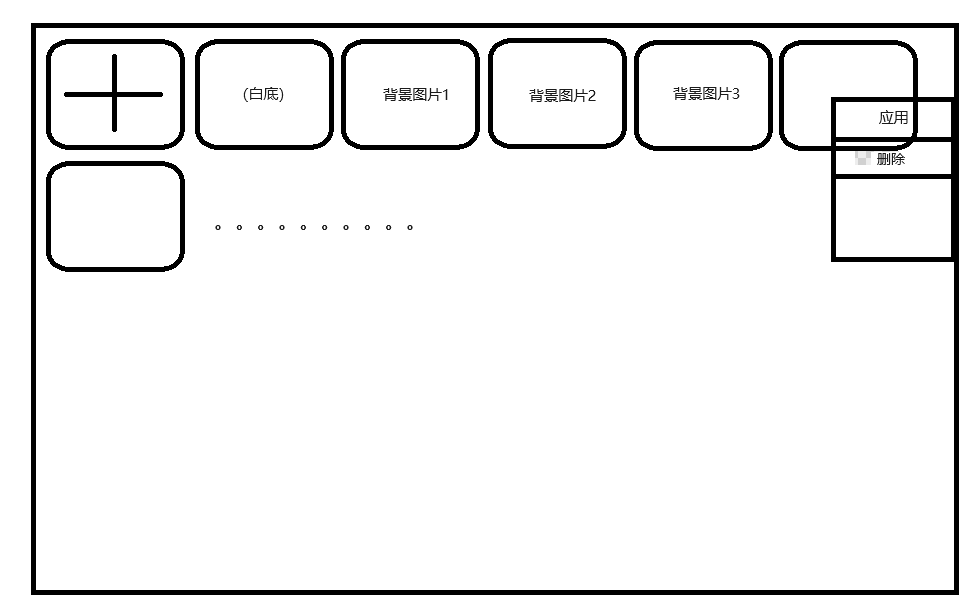
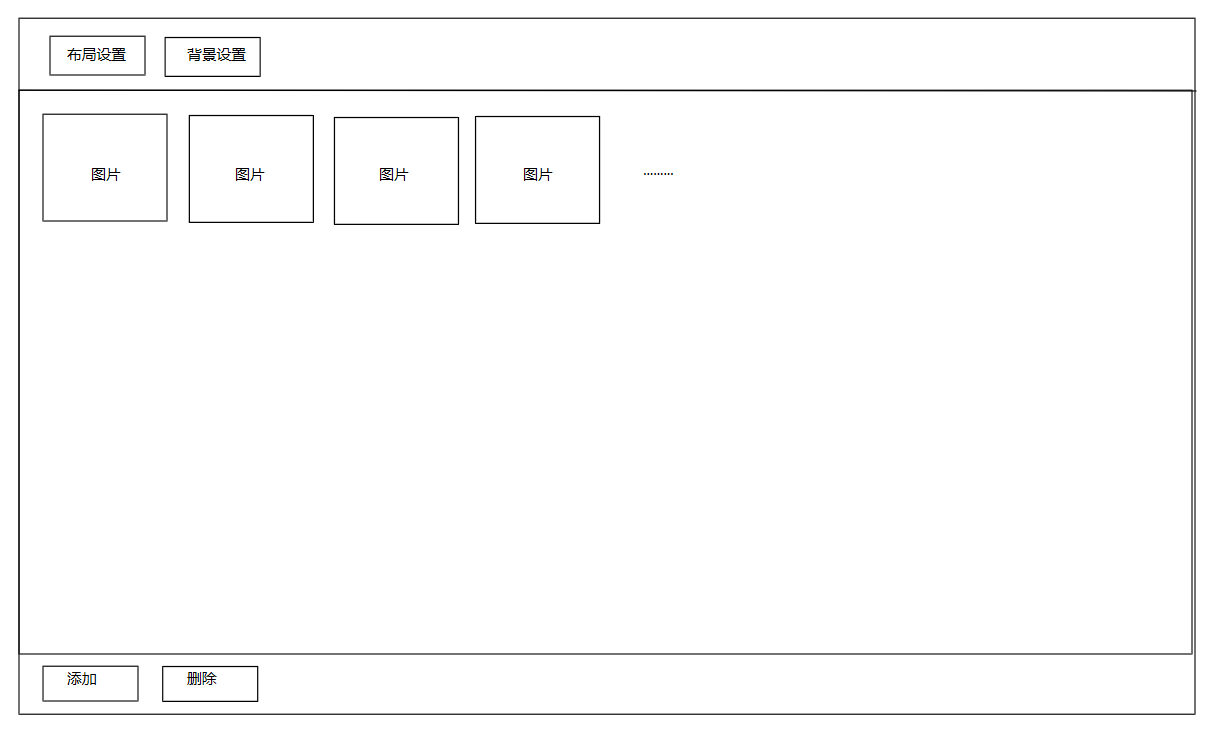
背景设置240313

Changed region(s): [[0.0, 0.0, 1.0, 0.987]]

diff --git a/WPF-Practice/WPF-Practice/BackgroundSetup.xaml b/WPF-Practice/WPF-Practice/BackgroundSetup.xaml
@@ -5,10 +5,25 @@
              xmlns:d="http://schemas.microsoft.com/expression/blend/2008" 
              xmlns:local="clr-namespace:WPF_Practice"
              mc:Ignorable="d" 
-             d:DesignHeight="450" d:DesignWidth="800" Background="Transparent">
-    <WrapPanel Orientation="Horizontal">
-        <Border Width="100" Height="100" Background="Transparent">
-            <Image x:Name="test" Source="./Images/离心泵.jpg" Stretch="Fill" MouseDown="test_MouseDown"  />
-        </Border>
-    </WrapPanel>
+             d:DesignHeight="450" d:DesignWidth="800">
+    <Grid>
+        <Grid.RowDefinitions>
+            <RowDefinition Height="*" />
+            <RowDefinition Height="60" />
+        </Grid.RowDefinitions>
+        <WrapPanel x:Name="wrap" Orientation="Horizontal" SizeChanged="WrapPanel_SizeChanged" Grid.Row="0">
+            <Border x:Name="test2" Width="100" Height="100">
+                <Border.Style>
+                    <Style>
+
+                    </Style>
+                </Border.Style>
+                <Image x:Name="test" Source="./Images/离心泵.jpg" Stretch="Fill" MouseDown="test_MouseDown"  />
+            </Border>
+        </WrapPanel>
+        <WrapPanel Grid.Row="1" VerticalAlignment="Center" ItemWidth="120" ItemHeight="40">
+            <Button Margin="8 0 8 0">添加</Button>
+            <Button  Margin="8 0 8 0">删除</Button>
+        </WrapPanel>
+    </Grid>
 </UserControl>

diff --git a/WPF-Practice/WPF-Practice/MainWindow.xaml b/WPF-Practice/WPF-Practice/MainWindow.xaml
@@ -99,7 +99,7 @@
             </Setter>
         </Style>
     </Window.Resources>
-    <TabControl Style="{DynamicResource TabControlStyle1}" x:Name="tc">
+    <TabControl Style="{DynamicResource TabControlStyle1}" x:Name="tc" Background="Transparent">
         <TabItem Header="布局设置">
             <local:LayoutSetup x:Name="layout_setup" />
         </TabItem>

diff --git a/WPF-Practice/WPF-Practice/MainWindow.xaml.cs b/WPF-Practice/WPF-Practice/MainWindow.xaml.cs
@@ -36,17 +36,13 @@ namespace WPF_Practice
             ////使用binding连接源与目标
             //BindingOperations.SetBinding(this.tc, TabControl.ItemsSourceProperty, binding);
             //this.tc.DataContext = Menu;
-
             tc.AddHandler(Button.ClickEvent, new RoutedEventHandler(ButtonClicked));
-            tc.AddHandler(BackgroundSetup.SetBackgroundImageEvent, new RoutedEventHandler(ApplyBackground));
+            tc.AddHandler(BackgroundSetup.SetBackgroundImageEvent, new EventHandler<SetBackgroundImageEventArgs>(ApplyBackground));
         }
 
-        private void ApplyBackground(object sender, RoutedEventArgs e)
+        private void ApplyBackground(object sender, SetBackgroundImageEventArgs e)
         {
-            if (e is SetBackgroundImageEventArgs be)
-            {
-                this.Background = new ImageBrush { ImageSource = be.BackgroundImage.Source };
-            }
+            this.Background = new ImageBrush { ImageSource = e.BackgroundImage.Source };
         }
 
         private void ButtonClicked(object sender, RoutedEventArgs e)

diff --git a/WPF-Practice/WPF-Practice/BackgroundSetup.xaml.cs b/WPF-Practice/WPF-Practice/BackgroundSetup.xaml.cs
@@ -21,8 +21,8 @@ namespace WPF_Practice
     public partial class BackgroundSetup : UserControl
     {
         public static readonly RoutedEvent SetBackgroundImageEvent = EventManager.RegisterRoutedEvent("SetBackgroundImage",
-        RoutingStrategy.Bubble,typeof(RoutedEventHandler),typeof(BackgroundSetup));
-
+        RoutingStrategy.Bubble,typeof(EventHandler<SetBackgroundImageEventArgs>),typeof(BackgroundSetup));
+        
         public event RoutedEventHandler SetBackgroundImage
         {
             add => AddHandler(SetBackgroundImageEvent, value);
@@ -42,6 +42,11 @@ namespace WPF_Practice
             Image bg = sender as Image;
             var args = new SetBackgroundImageEventArgs(bg);
             RaiseEvent(args);
+        }
+
+        private void WrapPanel_SizeChanged(object sender, SizeChangedEventArgs e)
+        {
+            test2.Width = test2.Height = this.ActualWidth / 10;
         }
     }
 

diff --git a/WPF-Practice/WPF-Practice/2_背景设置.md b/WPF-Practice/WPF-Practice/2_背景设置.md
@@ -3,15 +3,25 @@
 ## 需求分析
 
 需求：先看图片  ![背景设置UI草图](./Images/背景图片设置UI草图.png)  
-1. 点击带“+”符号的框，弹出图片选择对话框，等待用户选取图片后，将图片追加到列表中
-2. 点击白底框，将背景图片置空，背景为白底
-3. 双击图片框，将该图片设置为应用的背景图
-4. 右键图片框，可以“应用”或“删除”图片
-5. 窗体最大化时，应将图片框大小放大一些，同理对于窗体小化
+1. 双击图片列表中的图片框，将该图片设置为应用的背景图。注意，第一张图片为白底图，用于还原初始背景。
+2 点击“添加”按钮添加图片，点击“删除”按钮删除选中的图片
+3. 窗体最大化时，应将图片框大小放大一些，同理对于窗体小化
 
 分析：可以使用wrapanel作为图片列表容器，因为wrappanel的特点是如果当前行/列空间不足，会自动切换到下一行/列来放置子控件。
 对于图片框大小自适应功能，可以在wrappanel高度变化时实时改变所有内部图片框的大小。对于应用背景图片功能，可以给该用户控件
 自定义一个改变背景图片事件，然后让外面的tabcontrol监听这个事件，事件触发时执行一个改变自身背景图片的方法。其他功能无难点。
 
-## 开发思路
-1. 研究如何给用户控件自定义路由事件，触发事件时如何把图片参数带过去
+## 研究核心难点
+1. 研究如何给用户控件自定义路由事件，触发事件时如何把图片参数带过去(书上8.3.2 自定义路由事件)   
+经过研究，过程如下：
+	- 创建RoutedEventArgs的子类，用于传递图片参数
+	- 在用户控件里声明和注册路由事件，假设这个事件叫设置背景事件
+	- 外部控件订阅该事件并编写对应的事件处理程序
+小实验：能否像winform那样自定义事件使用？不能，因为addhandler方法只支持routedevent参数
+2. 研究图片框如何随父容器大小自适应  
+经过研究，给wrappanel注册一个sizechanged事件，在对应事件处理程序里改变图片框大小  
+3. 图像边框在点击后高亮，之前点击的回到普通状态
+
+## 实践过程中的小问题
+- 背景图片被tablcontrol的内容区域完全遮挡
+	- 设置TabControl的背景为透明，tabitem的背景为透明即可。
